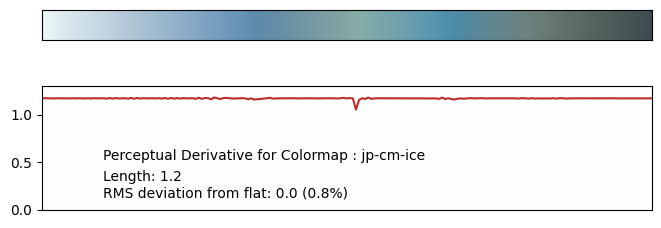
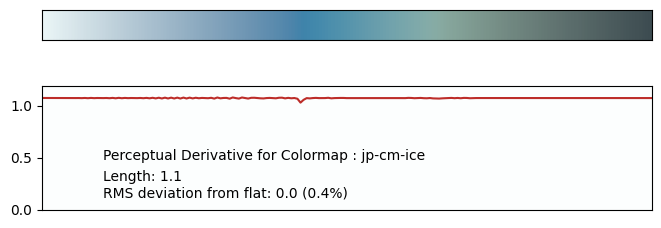
update readme

diff --git a/gen/maps.py b/gen/maps.py
@@ -74,7 +74,7 @@ cmaps = \
     # 'ete' : [],
     # 'automne' : [],
     # 'hiver' : [],
-    'ice'   : [aijiro,gunjo_iro,mizu_iro,sora_iro,sabi_asagi,omeshi_onando],
+    'ice'   : [aijiro,gunjo_iro,sora_iro,mizu_iro,sabi_asagi,omeshi_onando],
     'water' : [gunjo_iro,mizu_iro,seiji_iro],
     'momiji': [sakuranezumi,ginshu,azuki_iro,enji_iro],
     'sky' : [kokushoku,kokimurasaki,sora_iro,aijiro],
